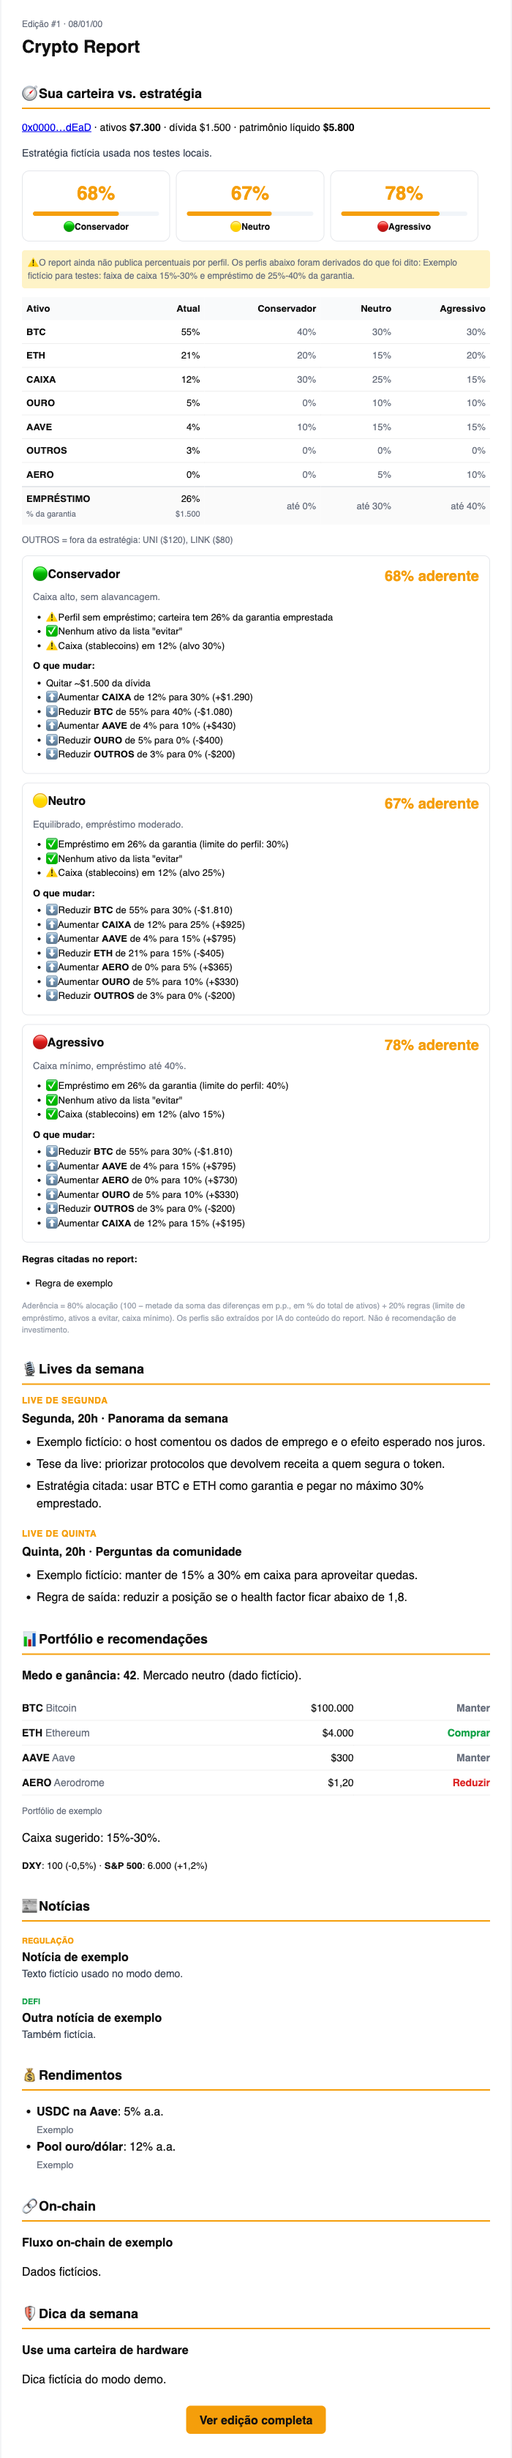
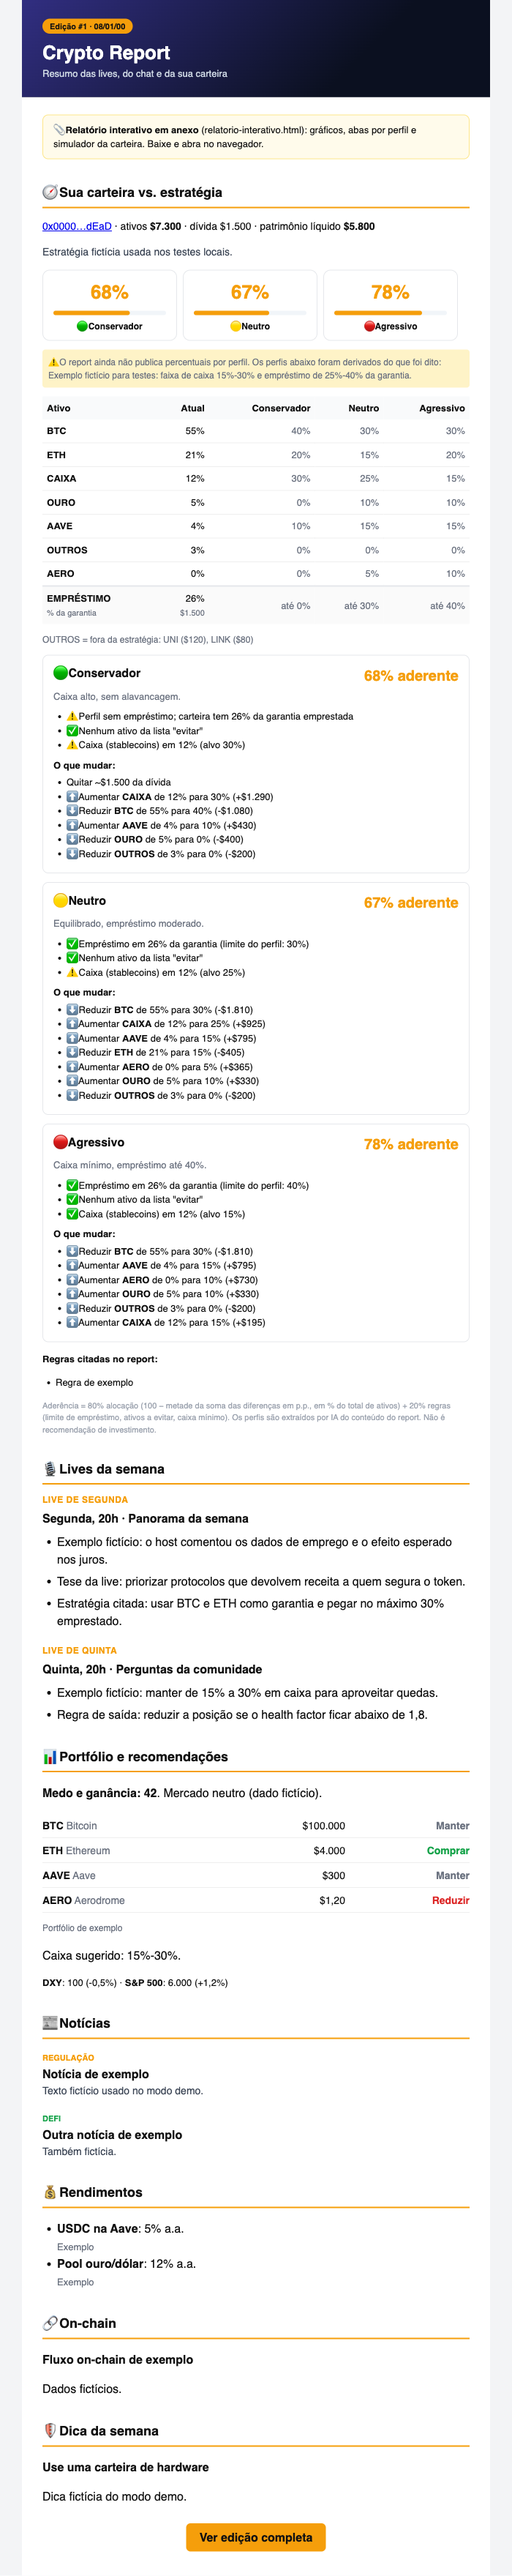
feat: interactive HTML report attachment and e-mail header

diff --git a/README.md b/README.md
@@ -38,10 +38,16 @@ Your crypto community publishes a weekly report with the summaries of its lives,
 - 🎙 **The whole edition**: live summaries, reference portfolio with buy/hold/sell, fear & greed, macro, news, yields, on-chain and the tip of the week.
 - 🧭 **Wallet vs. strategy**: an adherence score (0–100%) for the **conservative**, **neutral** and **aggressive** profiles, with a table of current vs. target allocation.
 - 🛠 **What to change**: concrete moves in US$ (e.g. *reduce BTC from 69% to 40%, -$1,680*), plus checks for the borrowing limit, minimum cash and assets to avoid.
+- 📊 **Interactive report attached**: a self-contained `relatorio-interativo.html` with score rings, a tab per profile, current-vs-target bars, an allocation donut and a **what-if simulator** (drag your positions and debt, watch every profile's score update live). No CDN, no tracking; it works offline.
 - 🏦 **DeFi aware**: reads Aave deposits and loans, LPs and staking on every chain through the [Zerion API](https://developers.zerion.io). Allocation is a share of your total assets (never negative), debt is checked against each profile's borrowing limit, and wrapped assets are grouped (WBTC/cbBTC → BTC, WETH/stETH → ETH, stablecoins → cash, XAUT/PAXG → gold).
 - 🤖 **LLM strategy extraction**: [Gemini](https://aistudio.google.com) reads the last 4 editions and turns them into structured profiles. When the report doesn't publish explicit percentages, they are derived from the ranges it mentions and the e-mail says so.
 - 🔐 **Private by design**: everything that identifies you lives in Actions **secrets**, logs never contain balances, and no artifacts are uploaded.
-- 🪶 **Zero dependencies**: plain Node 22, about 550 lines.
+- 🪶 **Zero dependencies**: plain Node 22, no build step.
+
+<details>
+<summary>📊 Interactive report (attachment)</summary>
+<p align="center"><img src="docs/report.png" width="760" alt="Interactive report with scores, allocation bars, donut and simulator"></p>
+</details>
 
 <details>
 <summary>📸 Full e-mail</summary>
@@ -81,7 +87,7 @@ flowchart LR
     B --> D[🏦 Zerion<br>wallet positions]
     C --> E[🧮 Adherence score<br>+ moves in US$]
     D --> E
-    E --> F[📬 Resend<br>HTML e-mail]
+    E --> F[📬 Resend<br>HTML e-mail<br>+ interactive report]
 ```
 
 | Step | What happens |
@@ -90,7 +96,7 @@ flowchart LR
 | **Strategy** | Gemini reads the last 4 editions and returns the profiles: allocation %, max borrowing, rules and assets to avoid. |
 | **Wallet** | Zerion returns balances and DeFi positions. Assets are grouped into buckets as a % of total assets; loans are kept apart as % of collateral. |
 | **Score** | 80% allocation (100 − half the sum of the differences in p.p.) + 20% rules (borrowing limit, assets to avoid, minimum cash). |
-| **Send** | The e-mail goes out through Resend and `state/last-sent.txt` is committed so the same edition is never sent twice. |
+| **Send** | The e-mail (email-safe HTML) and the interactive report (attached `.html` with inline JS) go out through Resend and `state/last-sent.txt` is committed so the same edition is never sent twice. |
 
 The e-mail content is in Portuguese (pt-BR), like the report it summarizes.
 
@@ -101,7 +107,7 @@ Requires Node 22+. No `npm install` needed.
 ```bash
 git clone https://github.com/vinimcorrea/crypto-report-digest.git
 cd crypto-report-digest
-npm run demo               # offline demo with fictional data -> preview.html
+npm run demo               # offline demo with fictional data -> preview.html + relatorio-interativo.html
 cp .env.example .env       # fill in your values
 npm run preview            # real data -> preview.html (nothing is sent)
 npm run preview:fixtures   # real report, fictional wallet/strategy (no Zerion/Gemini calls)
@@ -113,6 +119,7 @@ npm run send               # send for real
 - Run your instance in a **private** repository.
 - Personal data (site, e-mail, wallet) only goes in **secrets**, never in variables: GitHub masks secrets in logs but not variables.
 - Logs only contain error messages, never positions or balances, and the workflow uploads no artifacts.
+- The interactive report is a single attached file with no external requests, so your wallet data is never sent to a third party when you open it.
 - Everything in `test/` is fictional.
 
 ## 🗺 Roadmap

diff --git a/CONTRIBUTING.md b/CONTRIBUTING.md
@@ -24,7 +24,7 @@ Source layout (`src/`):
 
 Fixtures in `test/` let you run everything offline: `EDITIONS_FIXTURE`, `WALLET_FIXTURE` and `STRATEGY_FIXTURE`.
 
-If you change the e-mail layout, regenerate `docs/preview.png` from `npm run demo`. The README banner `docs/hero.png` is a 1280×640 screenshot of `docs/hero.html`, which also works as the repository's social preview image. The icon `Icon/AppIcon.png` is rendered from `Icon/icon.svg` at 1024×1024.
+If you change the e-mail layout, regenerate `docs/preview.png` from `npm run demo`; for the attachment (`src/report.mjs`), regenerate `docs/report.png` from `relatorio-interativo.html`. Keep the report self-contained: no external scripts, fonts or images. The README banner `docs/hero.png` is a 1280×640 screenshot of `docs/hero.html`, which also works as the repository's social preview image. The icon `Icon/AppIcon.png` is rendered from `Icon/icon.svg` at 1024×1024.
 
 ## Pull requests
 
